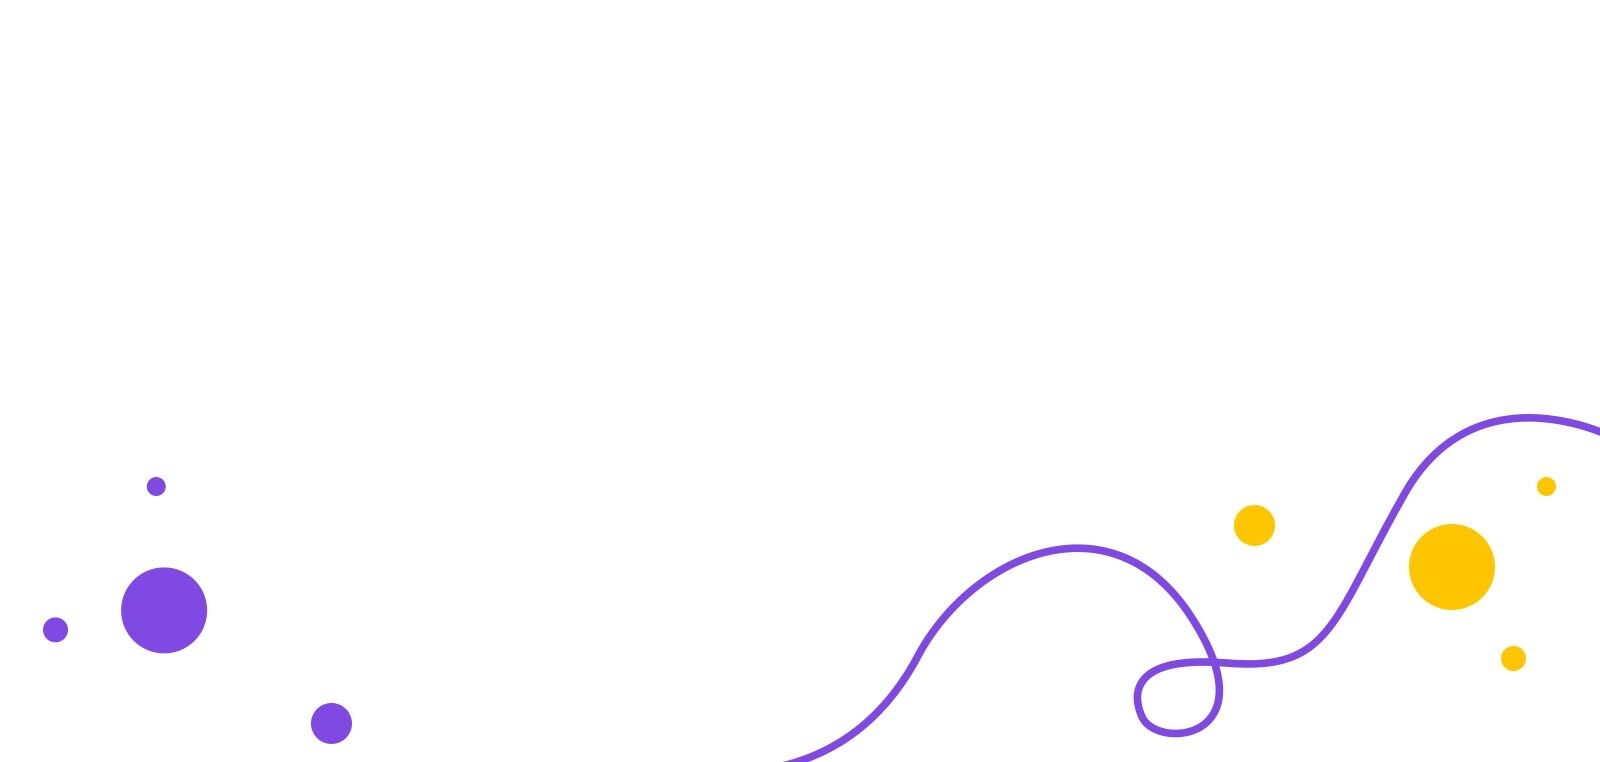
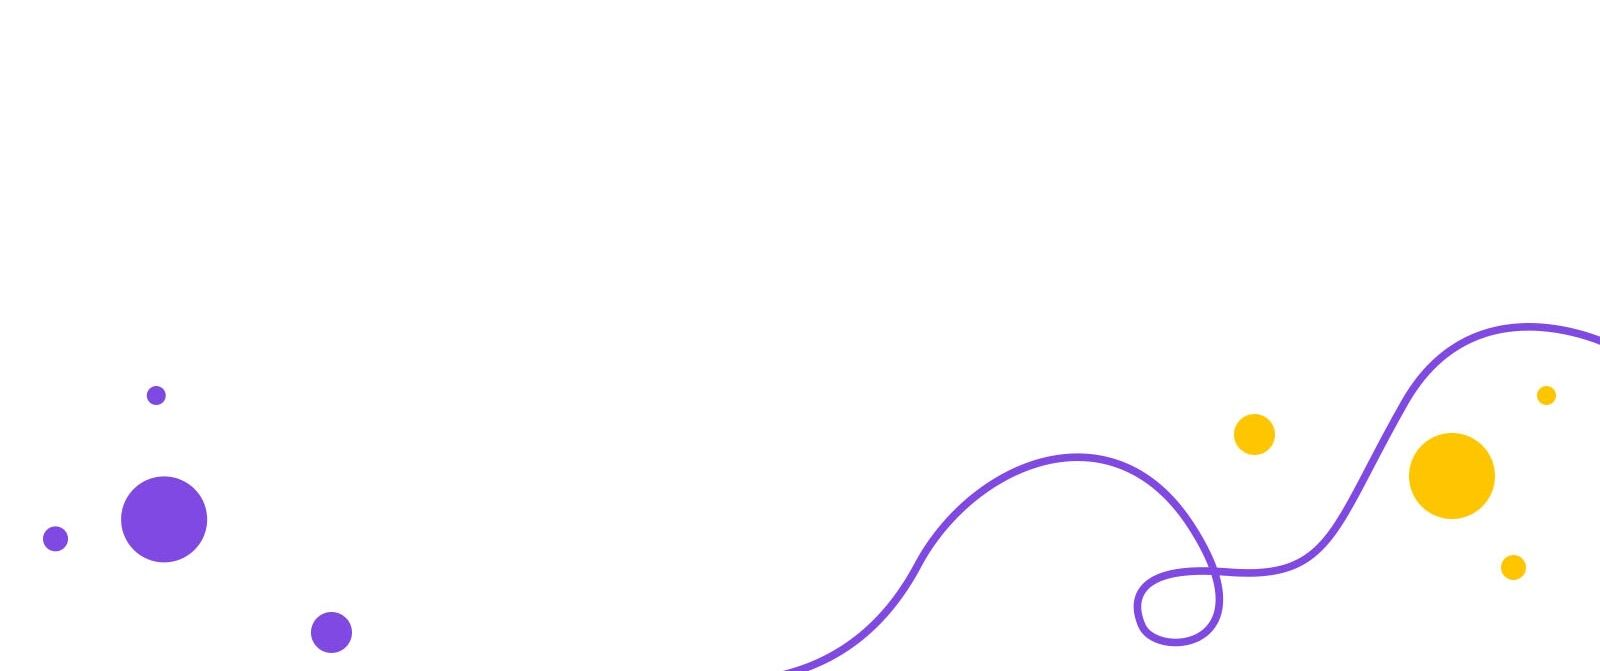
Fixed webpack doesn't show bg image problem

diff --git a/packages/spenserReactApp/src/pages/Feature.js b/packages/spenserReactApp/src/pages/Feature.js
@@ -1,0 +1,74 @@
+import TopNav from "../components/common/TopNav";
+import "./Feature.css"
+import React from 'react'
+import { makeStyles, Container, Grid } from "@material-ui/core";
+import featureVoiceInput from "../images/featureVoiceInput.png"
+
+const useStyles = makeStyles(() => ({
+	containerGrid: {
+		marginLeft: "5%",
+		width: "100%",
+		// padding: '40px 0',
+	}
+}));
+
+const Feature = () => {     
+	const classes = useStyles();
+    return (
+		<div>
+			<TopNav/>
+			<div>
+                <h1 className="featureTitle">
+                    We believe in customer satisfaction
+                </h1>
+                <p className="featureSlogan">
+                    Duis aute irure dolor in reprehenderit in voluptate 
+                    velit esse cillum dolore eu fugiat nulla pariatur. 
+                    Excepteur sint occaecat cupidatat.
+                </p>
+                <div className="gridContainer">
+                    
+                        {/* <div className="grid">
+                            <h3>01</h3>
+                            <div className="gridContent">
+                                <span></span>
+                                <h4></h4>
+                                <p></p>
+                            </div>
+                        </div> */}
+                    <Container className={classes.containerGrid}>
+                        <Grid container spacing={2} >
+                            <Grid item xs={3}>
+                               <h1>01</h1>
+                               <img src={featureVoiceInput} alt=""/>
+                               <p>Duis aute irure dolor in reprehenderit in voluptate 
+                    velit esse cillum dolore eu fugiat nulla pariatur. 
+                    Excepteur sint occaecat cupidatat.Duis aute irure dolor in reprehenderit in voluptate 
+                    velit esse cillum dolore eu fugiat nulla pariatur. 
+                    Excepteur sint occaecat cupidatat.Duis aute irure dolor in reprehenderit in voluptate 
+                    velit esse cillum dolore eu fugiat nulla pariatur. 
+                    Excepteur sint occaecat cupidatat.</p>
+                            </Grid>
+
+                            <Grid item xs={3}>
+                                <h1>02</h1>
+                            </Grid>
+
+                            <Grid item xs={3}>
+                                <h1>03</h1>
+                            </Grid>
+
+                            <Grid item xs={3}>
+                                <h1>04</h1>
+                            </Grid>
+                        </Grid>
+                    </Container>
+                </div>
+            </div>
+		</div>
+    );
+
+
+}
+
+export default Feature;

diff --git a/packages/spenserReactApp/src/components/auth/Form.css b/packages/spenserReactApp/src/components/auth/Form.css
@@ -11,20 +11,10 @@
 /******************************************/
 
   
-.form-background{
-	background-image:url("../../images/form-background.jpg");
-
-	 /* Full height */
-	 height: 100%;
-   
-	 /* Center and scale the image nicely */
-	 background-position: center;
-	 background-repeat: no-repeat;
-	 position:absolute;
-	 top:15%;
-	 bottom:0;
-	 width:100%;
-	 background-size:cover;
+.form-img{
+  height: auto;
+  position: fixed;
+  right: 0;
 }
 
 .form-content {
@@ -33,10 +23,9 @@
 }
 
 .form-signup {
-	/* margin-top: 5%; */
-	margin-top: 2%;
+	margin-top: 10%;
 	width: 40vw;
-	height: 65vh;
+	height: 57vh;
 	border-radius: 25px;
 	/* box-shadow: 3px 3px 3px #b8b6b6; */
 	position: relative;
@@ -45,10 +34,14 @@
 	margin-left: auto;
 	margin-right: auto;
 	text-align: center;
+	position: absolute;
+	left: 50%;
+	top: 30%;
+	transform: translate(-50%, -50%);
 }
 
 .form-login {
-	margin-top: 3%;
+	margin-top: 7%;
 	width: 40vw;
 	height: 57vh;
 	border-radius: 25px;

diff --git a/packages/spenserReactApp/config/webpack.common.js b/packages/spenserReactApp/config/webpack.common.js
@@ -15,8 +15,31 @@ module.exports = {
                 }
             },{
                 test: /\.css$/i,
-                use: ["style-loader", "css-loader"],
+                // use: ["style-loader", "css-loader"],
+                use: [ "style-loader", 
+                    { 
+                        loader: "css-loader", 
+                        options: 
+                        { 
+                            import: true, 
+                            url: true,
+                        } 
+                    },]
               }
+              ,
+              {
+                test: /\.(png|jpe?g|gif)$/i,
+                use: [
+                  {
+                    loader: 'file-loader',
+                  },
+                ],
+              }
+            //   ,
+            //   {
+            //     test: /\.(png|jpg)$/,
+            //     loader: 'url-loader'
+            //   }
         ]
     },plugins: [
         new HtmlWebpackPlugin({

diff --git a/packages/spenserReactApp/src/App.js b/packages/spenserReactApp/src/App.js
@@ -5,6 +5,7 @@ import AuthContext from "./context/auth-context";
 import Dashboard from "./pages/Dashboard";
 // import Tracker from "./pages/Tracker";
 import Profile from "./pages/Profile";
+import Feature from "./pages/Feature"
 import LoginToUseMessage from "./components/common/LoginToUseMessage"
 // import Confirm from "./pages/Confirm";
 import "./App.css";
@@ -61,6 +62,7 @@ function App({ history }) {
 				<Route exact path="/" component={Home} />
 				<Route exact path="/auth/signup" component={FormSignUpPage} />
 				<Route exact path="/auth/login" component={FormLogInPage} />
+				<Route exact path="/feature" component={Feature} />
 
 				<Route exact path="/dashboard" component={LoginToUseMessage} />
 				<Route exact path="/tracker" component={LoginToUseMessage} />

diff --git a/packages/spenserReactApp/src/pages/Home.js b/packages/spenserReactApp/src/pages/Home.js
@@ -2,6 +2,8 @@ import React from "react";
 import "./Home.css";
 import { Grid } from '@mui/material';
 import TopNav from "../components/common/TopNav";
+import greyBackground from "../images/grey-background.jpg"
+import rightBackground from "../images/home-right.png"
 
 const Home = () => {
 	return (
@@ -9,6 +11,7 @@ const Home = () => {
 
     <TopNav/>
 
+    <img className="img-left" src={greyBackground} alt=""/>
     <div className="home-body home-left">
         <h2>Spenser</h2>
         <p className="home-slogan">A voice based expense tracker just for you</p>
@@ -21,6 +24,7 @@ const Home = () => {
         </div>
     </div>
 
+    <img className="img-right" src={rightBackground} alt=""/>
     <div className="home-body home-right" >
         <div>
         </div>

diff --git a/packages/spenserReactApp/src/components/auth/FormSignUp.js b/packages/spenserReactApp/src/components/auth/FormSignUp.js
@@ -5,6 +5,7 @@ import conn from "../../util/conn.js";
 import "./Form.css";
 import { Link } from "react-router-dom";
 import { useHistory } from "react-router-dom";
+import formBackground from "../../images/form-background.jpg"
 
 // import { BrowserRouter as Link } from "react-router-dom";
 
@@ -42,7 +43,9 @@ const FormSignUp = ({ submitForm }) => {
 	}
 
 	return (
-		<div className="form-background form-content">
+		<>
+		<img className="form-img" src={formBackground} alt=""/>
+		<div className="form-content">
 			<form className="form-signup" onSubmit={handleSubmit}>
 				<div className="form-box">
 					<h2>Create a new account</h2>
@@ -104,6 +107,7 @@ const FormSignUp = ({ submitForm }) => {
 				</div>
 			</form>
 		</div>
+		</>
 	);
 };
 

diff --git a/packages/spenserReactApp/src/components/auth/FormLogIn.js b/packages/spenserReactApp/src/components/auth/FormLogIn.js
@@ -8,6 +8,7 @@ import { Link, useHistory } from "react-router-dom";
 import Notification from "../common/Notification";
 import { GoogleLogin } from "react-google-login";
 import { CommonLoading } from "react-loadingg";
+import formBackground from "../../images/form-background.jpg"
 
 const FormLogIn = ({ submitForm }) => {
 	const [loading, setLoading] = useState(false);
@@ -119,7 +120,8 @@ const FormLogIn = ({ submitForm }) => {
 	}
 	return (
 		<>
-		<div className="form-background form-content">
+		<img className="form-img" src={formBackground} alt=""/>
+		<div className="form-content">
 			<form className="form-login" onSubmit={handleSubmit}>
 				<div className="form-box">
 					<h2>Welcome Back!</h2>

diff --git a/packages/spenserReactApp/src/components/common/TopNav.js b/packages/spenserReactApp/src/components/common/TopNav.js
@@ -2,6 +2,7 @@ import React from 'react';
 import "./TopNav.css";
 import { Link } from "react-router-dom";
 import { makeStyles, Grid } from "@material-ui/core";
+import spenserLogo from "../../images/Spenser-logo.png"
 
 const useStyles = makeStyles(() => ({
 	containerNavbar:{
@@ -25,10 +26,7 @@ const TopNav = (props) => {
 			
 			<Grid container spacing={5} className={classes.containerNavbar}>
 				<Grid item xs={12} md={4} className={classes.containerLogo}>
-					<div className="logoAndName">
-						{/* <Link to="/">{props.emoj}</Link> */}
-						<Link to="/"> + </Link>
-					</div>
+					<img className='spenserLogo' src={spenserLogo} alt=""/>
 				</Grid>
 
 				<Grid item xs={12} md={2}>

diff --git a/packages/spenserReactApp/src/pages/Home.css b/packages/spenserReactApp/src/pages/Home.css
@@ -9,7 +9,17 @@
 .home-left {
   left:0;
   width: 40%;
-  background-image:url("../images/grey-background.jpg");
+  /* background-image:url("../images/grey-background.jpg"); */
+}
+
+.img-left{
+  min-height: 100%;
+  min-width: 40%;
+	width: 40%;
+  height: auto;
+  position: fixed;
+  top: 17%;
+  left: 0;
 }
 
 .home-left h2 {
@@ -40,8 +50,18 @@
     background-color: #803BEC;  
 }
 
+.img-right{
+  min-height: 750px;
+  min-width: 60%;
+	width: 60%;
+  height: auto;
+  position: fixed;
+  top: 17%;
+  right: 0;
+}
+
+
 .home-right {
   right:0;
   width: 60%;
-  background-image:url("../images/home-right.png");
 }

diff --git a/packages/spenserReactApp/src/components/common/TopNav.css b/packages/spenserReactApp/src/components/common/TopNav.css
@@ -6,22 +6,10 @@
 }
 
 
-.logoAndName {
-  position: absolute;
-  display: inline-block;
-}
-
-.logoAndName a {
-  display: inline-block;
-  background-image: url("../../images/Spenser-logo.png");
-  background-size: 200px 80px;
-  background-position: left center;
-  background-repeat: no-repeat;
-  text-indent: 200px;
-  text-decoration: none;
-  font-weight: bold;
-  font-size: 40px;
-  color: white;
+.spenserLogo{
+  max-width: 65%;
+  max-height: 65%;
+  margin-left: 2%;
 }
 
 

diff --git a/packages/spenserReactApp/src/pages/Feature.css b/packages/spenserReactApp/src/pages/Feature.css
@@ -1,0 +1,12 @@
+.featureTitle{
+    margin-top: 5%;
+    margin-left: 5%;
+    width: 30%;
+    color: #5a5a5a;
+}
+
+.featureSlogan{
+    margin-left: 5%;
+    width: 45%;
+    color: #999999;
+}
